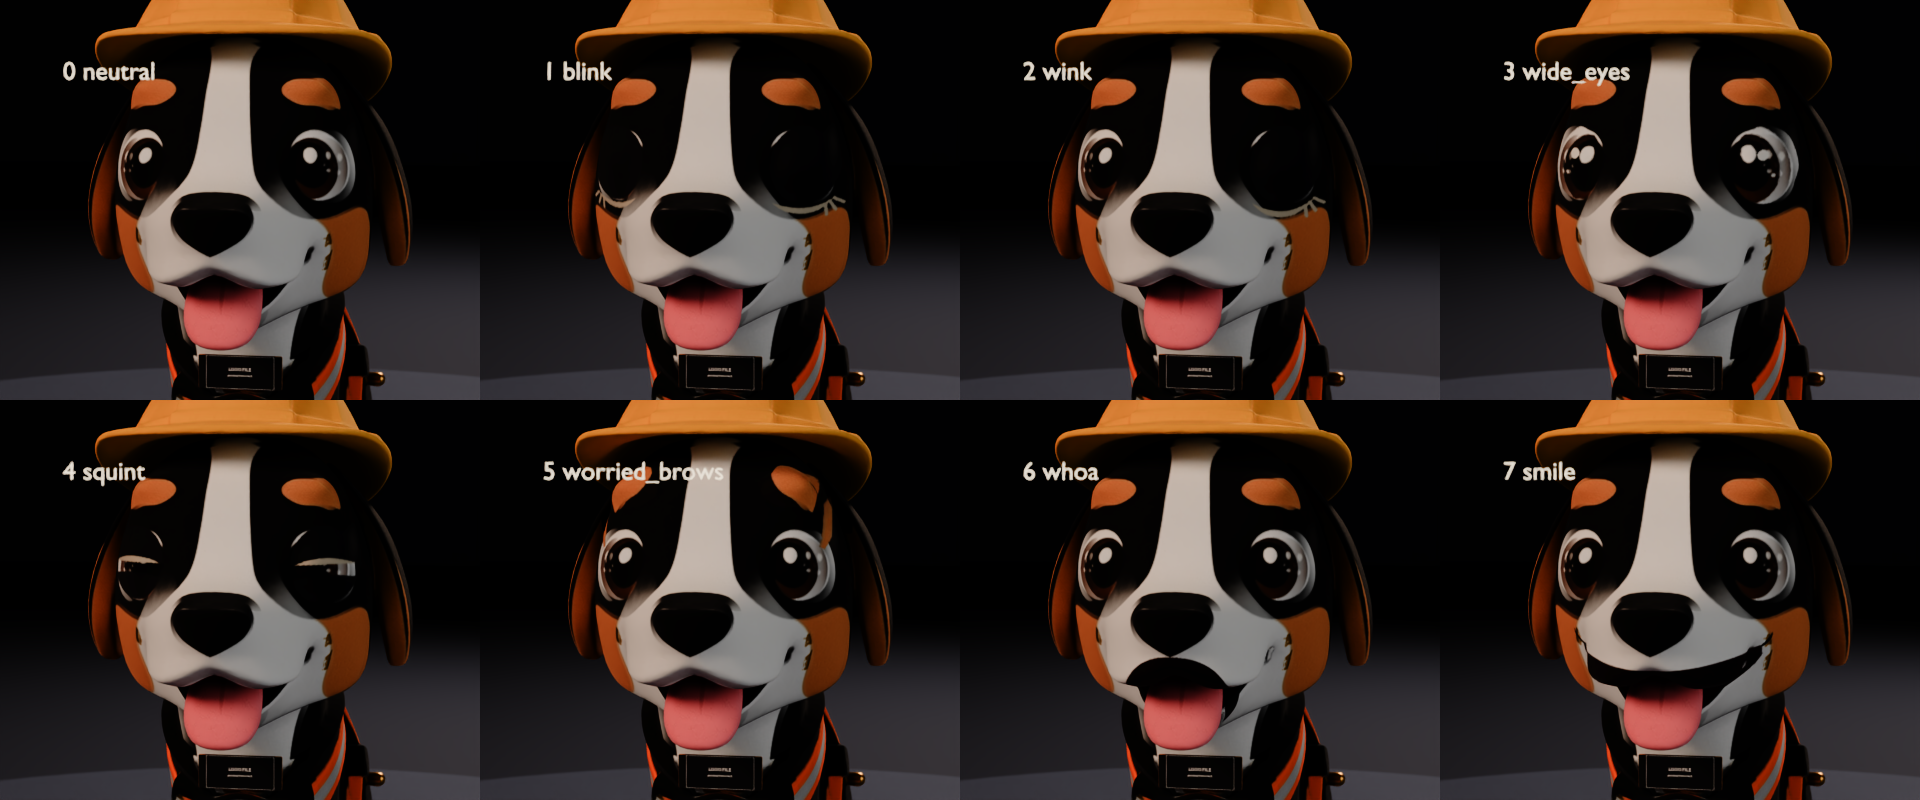
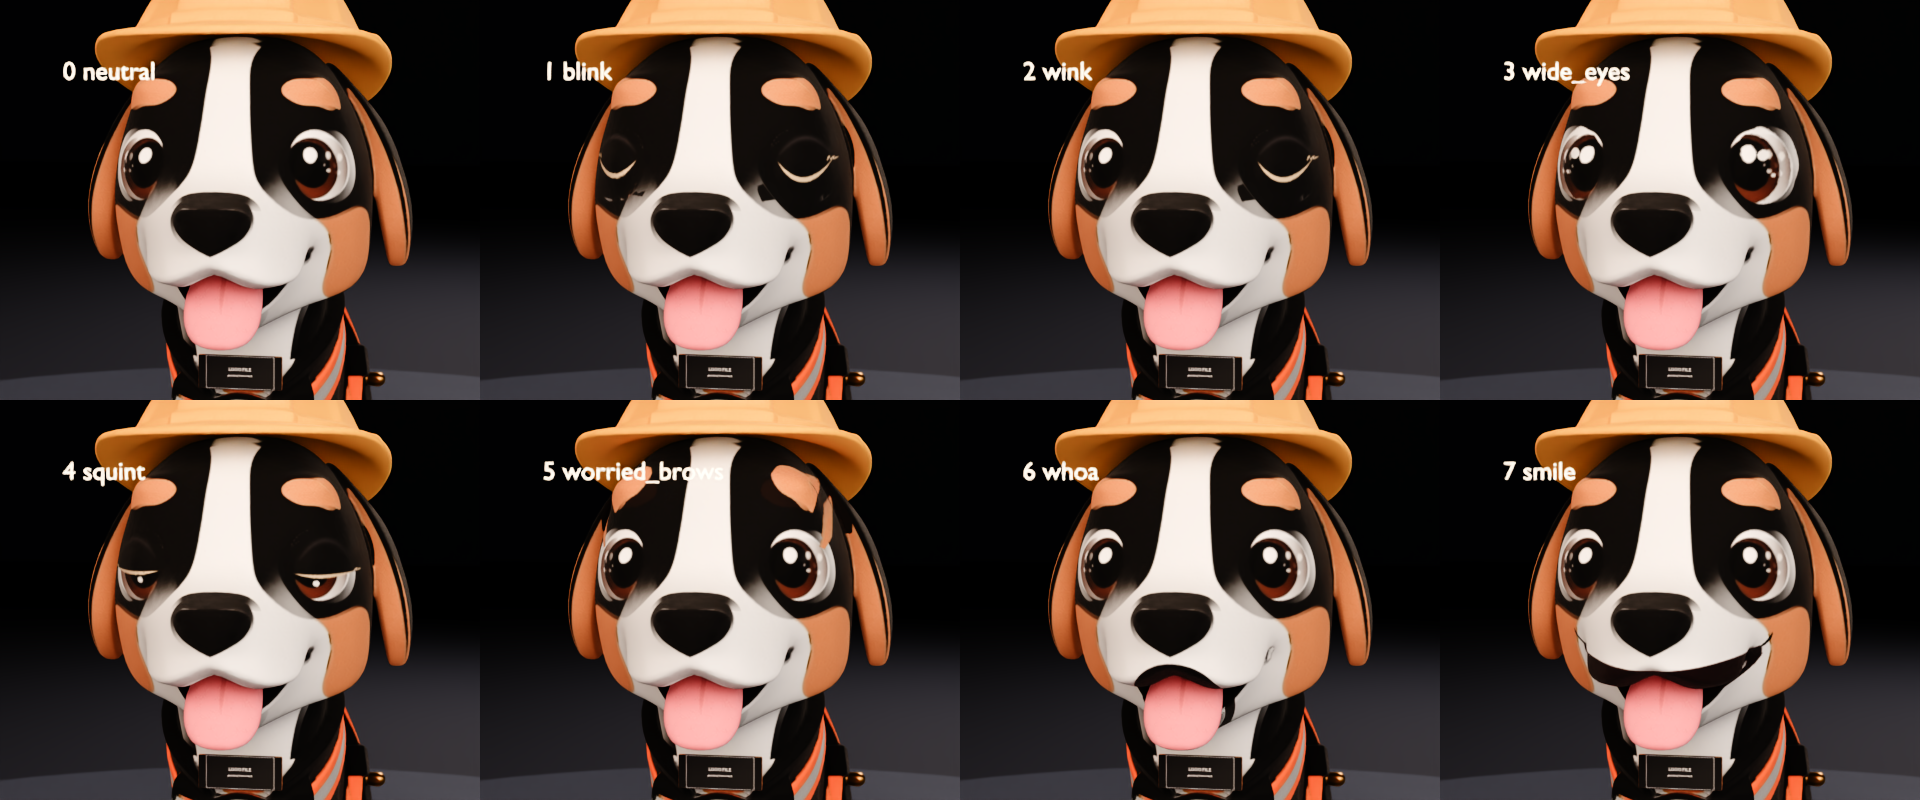
Bolt faces: readable closed-eye lids, bolder whoa, cleaner brass pin mask
Claude-Session: https://claude.ai/code/session_01BntmWCku4jb1pF4QRZCMzN

diff --git a/scripts/builders/_rigkit_bolt.py b/scripts/builders/_rigkit_bolt.py
@@ -512,7 +512,7 @@ def brass_pins(tex, data, masks):
     px = tri_uv_px(data, ti, W, H)
     _, cov = raster_tris(px, np.zeros((len(ti), 3, 1)), W, H, pad=2.0)
     h, s, v = _rgb_hsv(tex)
-    pin = cov & (v > 0.35) & (s < 0.5) & (h > 20) & (h < 80)
+    pin = cov & (v > 0.55) & (s > 0.08) & (s < 0.42) & (h > 30) & (h < 72)
     lum = tex.mean(-1)
     ref = np.median(lum[pin]) if pin.any() else 0.8
     shade = np.clip(lum / ref, 0.45, 1.25)[..., None]
@@ -644,6 +644,9 @@ def find_features(cv):
         cx, cz, rx, rz = F["eye" + side]
         bm = tan & (Z > cz + rz * 0.85) & (Z < cz + rz * 3.2) & (np.abs(X - cx) < rx * 1.5)
         F["brow" + side] = bm
+        r = np.hypot((X - cx) / rx, (Z - cz) / rz)
+        ring = (r > 1.3) & (r < 1.8) & (v < 0.3)
+        F["fur" + side] = tuple(np.median(img[ring], 0)) if ring.any() else (0.03, 0.03, 0.035)
     return F
 
 
@@ -658,31 +661,68 @@ def _fur(cv, mask, ring=0.003):
     return np.median(cv["img"][rim], 0), grown
 
 
-def _lid(cv, eye, lid_col, lash_col, frac_top=1.0, frac_bot=0.0, sag=0.35, lashes=True, side=1):
-    """Felt eyelid: covers the eye from the top down to a curved lash line."""
+def _soft_ellipse(cv, cx, cz, rx, rz, feather=0.003):
+    """Ellipse alpha with a wide feather (no hard circular outline on the fur). The feather
+    only spills onto dark fur, never onto the white blaze / tan markings."""
+    a = _ellipse_a(cv, cx, cz, rx, rz, aa=feather)
+    r = np.hypot((cv["X"] - cx) / rx, (cv["Z"] - cz) / rz)
+    dark = np.clip((0.4 - cv["base_v"]) / 0.15, 0, 1)
+    a = a * np.where(r < 0.88, 1.0, dark)
+    # the sculpted eye-white rim just outside the ellipse (but not the blaze / muzzle)
+    rim = ((r < 1.3) & (cv["base_v"] > 0.35) & (np.abs(cv["X"]) > 0.049)
+           & ((cv["Z"] > cz - 0.95 * rz / 1.24)
+              | ((cv["Z"] > cz - 1.2 * rz / 1.24) & (np.sign(cx) * (cv["X"] - cx) > -0.2 * rx)))
+           ).astype(float)
+    rim = (rim + np.roll(rim, 1, 0) + np.roll(rim, -1, 0) + np.roll(rim, 1, 1) + np.roll(rim, -1, 1)) / 5
+    return np.maximum(a, rim)
+
+
+def _lid_highlight(cv, cx, cz, rx, rz, z0, col=(0.27, 0.26, 0.28), strength=0.55):
+    """Soft lighter-felt band along the upper curve of a closed lid (reads as rounded)."""
+    pts = _arc((cx - 0.85 * rx, z0), (cx, cz + 1.25 * rz), (cx + 0.85 * rx, z0))
+    a = _line_a(cv, pts, 0.004, aa=0.004, taper=True) * strength
+    _paint(cv, a, col)
+
+
+def _lashes(cv, x, z, side, col, n=3, length=0.0058, width=0.0017):
+    for k, ang in enumerate((18, 42, 66)[:n]):
+        a = math.radians(ang)
+        p0 = (x - side * 0.0022 * k, z - 0.0006 * k)
+        q = (p0[0] + side * math.cos(a) * length, p0[1] + math.sin(a) * length)
+        _paint(cv, _line_a(cv, [p0, q], width, taper=True), col)
+
+
+def _closed_eye(cv, eye, fur, line_col, side=1):
+    """Happy closed eye: black-fur lid (feathered, no outline), soft highlight along the
+    upper curve, thick pale U-shaped closed-eye line with lashes at the outer end."""
     cx, cz, rx, rz = eye
-    ell = _ellipse_a(cv, cx, cz, rx * 1.2, rz * 1.16)
+    _paint(cv, _soft_ellipse(cv, cx, cz, rx * 1.28, rz * 1.24), fur)
+    _lid_highlight(cv, cx, cz, rx, rz, cz + 0.35 * rz)
+    p0 = (cx - 0.92 * rx, cz + 0.12 * rz)
+    p2 = (cx + 0.92 * rx, cz + 0.12 * rz)
+    pts = _arc(p0, (cx, cz - 0.95 * rz), p2, 60)
+    _paint(cv, _line_a(cv, pts, 0.0048, aa=0.0005, taper=True), line_col)
+    end = p2 if side > 0 else p0
+    _lashes(cv, end[0], end[1], side, line_col)
+
+
+def _squint_eye(cv, eye, fur, line_col, side=1):
+    """Half-closed eye: lid down to below the eye centre, the lower third of the iris and
+    a catchlight still showing, same pale lid line."""
+    cx, cz, rx, rz = eye
     X, Z = cv["X"], cv["Z"]
-    u = np.clip((X - cx) / (rx * 1.2), -1, 1)
-    edge = cz + rz * (1 - 2 * frac_top) - rz * sag * (1 - u ** 2)   # lash-line height
-    top = np.clip(0.5 + (Z - edge) / 0.0004, 0, 1) * ell
-    _paint(cv, top, lid_col)
-    if frac_bot > 0:
-        bedge = cz - rz * (1 - 2 * frac_bot) + rz * 0.15 * (1 - u ** 2)
-        bot = np.clip(0.5 + (bedge - Z) / 0.0004, 0, 1) * ell
-        _paint(cv, bot, lid_col)
-    xs = np.linspace(-0.98, 0.98, 41)
-    ex = cx + xs * rx * 1.08
-    ez = cz + rz * (1 - 2 * frac_top) - rz * sag * (1 - xs ** 2)
-    _paint(cv, _line_a(cv, np.stack([ex, ez], -1), rz * 0.2, taper=True), lash_col)
-    if lashes:   # three little lashes at the outer corner
-        for k, ang in enumerate((-35, -60, -85)):
-            t = 0.93 - 0.14 * k
-            px = cx + side * t * rx * 1.08
-            pz = cz + rz * (1 - 2 * frac_top) - rz * sag * (1 - t ** 2)
-            a = math.radians(ang)
-            q = (px + side * math.cos(a) * rz * 0.33, pz + math.sin(a) * rz * 0.33)
-            _paint(cv, _line_a(cv, [(px, pz), q], rz * 0.11), lash_col)
+    u = np.clip((X - cx) / (rx * 1.15), -1, 1)
+    edge = cz - 0.22 * rz - 0.1 * rz * (1 - u ** 2)
+    lid = _soft_ellipse(cv, cx, cz, rx * 1.28, rz * 1.24) * np.clip(0.5 + (Z - edge) / 0.0006, 0, 1)
+    _paint(cv, lid, fur)
+    _lid_highlight(cv, cx, cz, rx, rz, cz + 0.2 * rz, strength=0.45)
+    xs = np.linspace(-1.0, 1.0, 50)
+    pts = np.stack([cx + xs * rx * 1.05, cz - 0.22 * rz - 0.1 * rz * (1 - xs ** 2)], -1)
+    _paint(cv, _line_a(cv, pts, 0.0036, aa=0.0005, taper=True), line_col)
+    _paint(cv, _ellipse_a(cv, cx - side * 0.28 * rx, cz - 0.52 * rz, 0.12 * rx, 0.12 * rx),
+           (0.97, 0.97, 0.96))
+    _lashes(cv, pts[-1][0] if side > 0 else pts[0][0], pts[-1][1], side, line_col, n=2,
+            length=0.0045)
 
 
 def _wide(cv, base, eye, s=1.13, catch=True, side=1):
@@ -720,39 +760,37 @@ def _brow_tilt(cv, base, mask, ang, lift=0.0025):
 
 
 MOUTH_DARK = (0.10, 0.035, 0.045)
+WHOA_DARK = (0.03, 0.01, 0.014)
 
 
 def paint_variant(name, cv0, F):
     cv = dict(cv0, img=cv0["img"].copy(), alpha=np.zeros(cv0["X"].shape))
     base = cv0["img"]
-    # lid = the black felt around the eye; the lash line is a pale stitched seam so the
-    # closed eye reads on black fur
-    lid = (0.095, 0.092, 0.1)            # bolt_black felt, a touch lifted
-    lash = (0.8, 0.76, 0.68)
+    cv["base_v"] = base.max(-1)
+    line = (0.88, 0.8, 0.64)             # pale cream closed-eye line (pops on black fur)
     if name == "blink":
-        _lid(cv, F["eyeL"], lid, lash, side=1)
-        _lid(cv, F["eyeR"], lid, lash, side=-1)
+        _closed_eye(cv, F["eyeL"], F["furL"], line, side=1)
+        _closed_eye(cv, F["eyeR"], F["furR"], line, side=-1)
     elif name == "wink":
-        _lid(cv, F["eyeL"], lid, lash, side=1, sag=0.45)
+        _closed_eye(cv, F["eyeL"], F["furL"], line, side=1)
     elif name == "wide_eyes":
         _wide(cv, base, F["eyeL"], side=1)
         _wide(cv, base, F["eyeR"], side=-1)
     elif name == "squint":
-        for s, sg in (("L", 1), ("R", -1)):
-            _lid(cv, F["eye" + s], lid, lash, frac_top=0.5, frac_bot=0.28, sag=-0.12,
-                 lashes=False, side=sg)
+        _squint_eye(cv, F["eyeL"], F["furL"], line, side=1)
+        _squint_eye(cv, F["eyeR"], F["furR"], line, side=-1)
     elif name == "worried_brows":
         _brow_tilt(cv, base, F["browL"], math.radians(-28))
         _brow_tilt(cv, base, F["browR"], math.radians(28))
     elif name == "whoa":
         X, Z = cv["X"], cv["Z"]
-        o = _ellipse_a(cv, 0.0, 0.516, 0.047, 0.043)
+        o = _ellipse_a(cv, 0.0, 0.506, 0.043, 0.047, aa=0.0006)
         white = np.median(base[(np.abs(X) < 0.06) & (Z > 0.56) & (Z < 0.575) & (np.abs(X) > 0.04)], 0)
         for sg in (1, -1):      # erase the smile creases outside the O
             h, s, v = _rgb_hsv(base)
             crease = ((v < 0.45) & (np.hypot(X - sg * 0.07, Z - 0.548) < 0.016)).astype(float)
             _paint(cv, crease * (1 - o), white)
-        _paint(cv, o, MOUTH_DARK)
+        _paint(cv, o, WHOA_DARK)
     elif name == "smile":
         X, Z = cv["X"], cv["Z"]
         u = np.clip(X / 0.084, -1, 1)

diff --git a/scripts/builders/_rigkit_pickles.py b/scripts/builders/_rigkit_pickles.py
@@ -866,6 +866,91 @@ def _components(n, edges):
             return lab
 
 
+def _fan_caps(bm, uv_layer, uv=None, inset=0.12, relax=12):
+    """Close every boundary loop: a relaxed inner ring on the rim's best-fit plane (so the jagged
+    fur rim does not streak the shading), a fan to the centre. Each cap takes the UV of the rim
+    vertex whose texture colour is the rim median (lime on the vest side, fur on the arm)."""
+    from mathutils import Vector as V
+    colr = bm.verts.layers.float_color.get("tex_col")
+    bedges = [e for e in bm.edges if e.is_boundary]
+    adj = {}
+    for e in bedges:
+        for v in e.verts:
+            adj.setdefault(v, []).append(e)
+    seen = set()
+    groups = []
+    for e0 in bedges:
+        if e0 in seen:
+            continue
+        group, stack = [], [e0]
+        while stack:
+            e = stack.pop()
+            if e in seen:
+                continue
+            seen.add(e)
+            group.append(e)
+            for v in e.verts:
+                stack.extend(x for x in adj[v] if x not in seen)
+        groups.append(group)
+    caps = []
+    for group in groups:
+        rim = list({v for e in group for v in e.verts})
+        P_ = np.array([v.co[:] for v in rim])
+        c = P_.mean(0)
+        n = np.linalg.svd(P_ - c)[2][2]                      # plane normal
+        # ring: pulled towards the centre, relaxed along the rim, flattened onto the plane
+        R = P_ + (c - P_) * inset
+        nb = {v: [x for e in adj[v] for x in e.verts if x is not v] for v in rim}
+        idx = {v: i for i, v in enumerate(rim)}
+        for _ in range(relax):
+            R = 0.5 * R + 0.5 * np.array([np.mean([R[idx[x]] for x in nb[v]], 0) for v in rim])
+        R = R - np.outer((R - c) @ n, n)
+        ring = [bm.verts.new(V(r)) for r in R]
+        cv = bm.verts.new(V(c))
+        if colr is not None:
+            cols = np.array([v[colr][:3] for v in rim])
+            hh, ss, vv = meshy.hsv(np.clip(cols, 0, 1))
+            lime = (hh > 55) & (hh < 95) & (ss > 0.4) & (vv > 0.4)
+            fur = (ss < 0.2) & (vv > 0.3)
+            # winding tells the side: caps facing away from the midline close the torso (vest
+            # side panel), caps facing the midline close the arm's inner face (fur)
+            fn = np.zeros(3)
+            for e in group:
+                lp = e.link_loops[0]
+                a_, b_ = np.array(lp.vert.co[:]), np.array(lp.link_loop_next.vert.co[:])
+                fn += np.cross(a_ - b_, c - b_)
+            outward = fn[0] * np.sign(c[0]) > 0
+            cls = lime if (outward and lime.mean() > 0.15) else fur
+            if not cls.any():
+                cls = np.ones(len(rim), bool)
+            med = np.median(cols[cls], 0)
+            dist = np.linalg.norm(cols - med, axis=1) + (~cls) * 10
+            k = int(np.argmin(dist))
+            luv = rim[k].link_loops[0][uv_layer].uv.copy() if rim[k].link_loops else uv
+            ccol = rim[k][colr]
+            for v in ring + [cv]:
+                v[colr] = ccol
+        else:
+            luv = uv
+        for e in group:
+            lp = e.link_loops[0]
+            a, b = lp.vert, lp.link_loop_next.vert
+            ra, rb = ring[idx[a]], ring[idx[b]]
+            for vs in ((b, a, ra, rb), (rb, ra, cv)):
+                try:
+                    f = bm.faces.new(vs)
+                except ValueError:
+                    continue
+                f.smooth = False
+                f.material_index = lp.face.material_index
+                for l in f.loops:
+                    l[uv_layer].uv = luv
+        bm.verts.index_update()
+        caps.append((cv.index, [v.index for v in rim],
+                     [(r.index, v.index) for r, v in zip(ring, rim)]))
+    return caps
+
+
 def rip_arms(ob, names, W, co, col, J_, arm_cols, handzone):
     """The sculpt fuses each hanging arm onto the torso side (a ~0.12 x 0.3 m contact patch).
     Raised arms would pull webbing out of the torso, so cut each arm free along that seam
@@ -875,9 +960,11 @@ def rip_arms(ob, names, W, co, col, J_, arm_cols, handzone):
     me = ob.data
     edges = _neighbours(me)
     x, y, z = co.T
-    aw = W[:, arm_cols].sum(1)
-    armish = (aw > 0.5) & (np.abs(x) > 0.13) & (z > 0.34) & (z < 0.9)
-    piece = flood(handzone, edges, armish | handzone)
+    m = classify(co, col)
+    tail = (y > 0.13) & (z < 0.66)
+    box = ((np.abs(x) > 0.135) & (z > 0.34) & (z < 0.9) & (y > -0.09) & (y < 0.1) & ~tail
+           & ~m["lime"] & ~m["pink"])
+    piece = flood(handzone, edges, box | handzone)      # hand -> forearm -> upper arm -> pin
     cut = piece[edges[:, 0]] != piece[edges[:, 1]]
     # grey fur UV to paint the caps with (median UV of torso-side grey fur)
     h, s, v = _hsv(col)
@@ -897,14 +984,9 @@ def rip_arms(ob, names, W, co, col, J_, arm_cols, handzone):
     bm.verts.ensure_lookup_table()
     n1 = len(bm.verts)
     # new verts are copies of originals: remember where they came from (same position)
-    boundary = [e for e in bm.edges if e.is_boundary]
-    res = bmesh.ops.holes_fill(bm, edges=boundary, sides=0)
-    caps = res["faces"]
-    tri = bmesh.ops.triangulate(bm, faces=caps, quad_method="BEAUTY", ngon_method="BEAUTY")
-    for f in tri["faces"]:
-        f.smooth = True
-        for l in f.loops:
-            l[uv_layer].uv = grey_uv
+    caps = _fan_caps(bm, uv_layer, grey_uv)
+    bm.normal_update()
+    open_edges = sum(1 for e in bm.edges if e.is_boundary)
     bm.to_mesh(me)
     bm.free()
     me.update()
@@ -938,11 +1020,16 @@ def rip_arms(ob, names, W, co, col, J_, arm_cols, handzone):
     others = [j for j in range(W.shape[1]) if j not in arm_cols]
     W2[np.ix_(is_arm, others)] = 0
     W2[np.ix_(~is_arm, arm_cols)] = 0
+    for ci, members, ring in caps:     # cap verts: rim weights (same piece)
+        for ri, vi in ring:
+            W2[ri] = W2[vi]
+        W2[ci] = W2[members].mean(0)
     lost = W2.sum(1) < 1e-4
     for tag in ("L", "R"):
         side = (co2[:, 0] > 0) if tag == "L" else (co2[:, 0] < 0)
         W2[lost & is_arm & side, J_[f"upper_arm.{tag}"]] = 1
     W2[lost & ~is_arm, J_["spine.03"]] = 1
-    ob["arm_rip"] = "arms cut free along the fused torso seam: %d edges, %d cap faces" % (
-        int(cut.sum()), len(tri["faces"]))
+    ob["arm_rip"] = ("arms cut free along the fused torso seam: %d edges, %d cap loops, "
+                     "%d open edges left" % (int(cut.sum()), len(caps), open_edges))
+    print("[pickles]", ob["arm_rip"])
     return W2, co2, col2

diff --git a/scripts/builders/bolt.py b/scripts/builders/bolt.py
@@ -253,6 +253,9 @@ def _faces_grid(root, path, res=(480, 400), samples=16):
     cam, tgt = studio.camera("Bolt_facecam", (0.16, -1.35, 0.70), (0.0, -0.26, 0.59), lens=85,
                              fstop=16)
     s.camera = cam
+    # soft front fill so the face tiles read (the turntable key is aimed at the body)
+    studio.area_light("Bolt_facefill", (0.25, -1.3, 0.95), (0.0, -0.28, 0.6), 60, temp=5200,
+                      size=0.8)
     s.render.resolution_x, s.render.resolution_y = res
     s.cycles.samples = samples
     label = bpy.data.curves.new("Bolt_facelabel", "FONT")

diff --git a/scripts/render_pickles_checks.py b/scripts/render_pickles_checks.py
@@ -85,7 +85,7 @@ if a.what in ("pose_test", "all"):
     pickles.pose_test(root)
     shots = []
     for i, (yaw, z) in enumerate(((-30, 1.0), (45, 1.0))):
-        set_view(yaw, 3.0, z)
+        set_view(yaw, 3.7, z, target=(0, 0, 0.68))
         shots.append(render(os.path.join(a.out, f"_pt_{i}.png")))
     tile(shots, os.path.join(a.out, "pose_test.png"))
 
